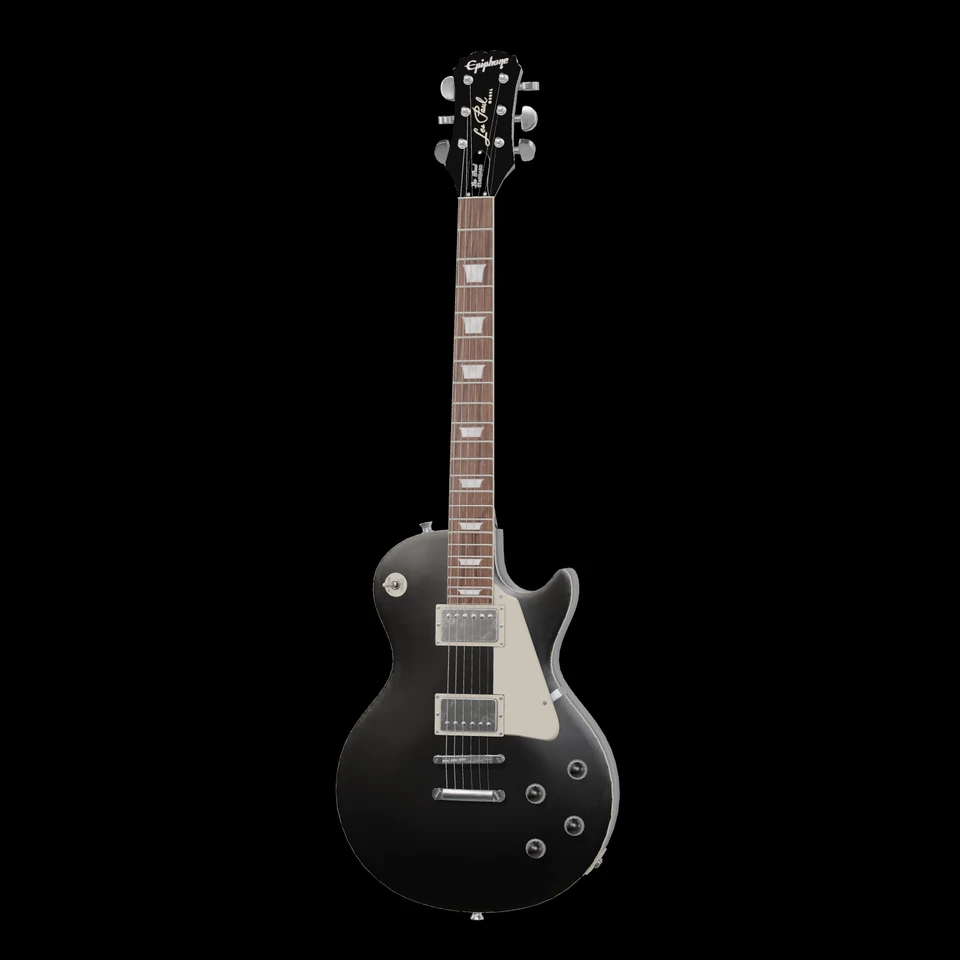
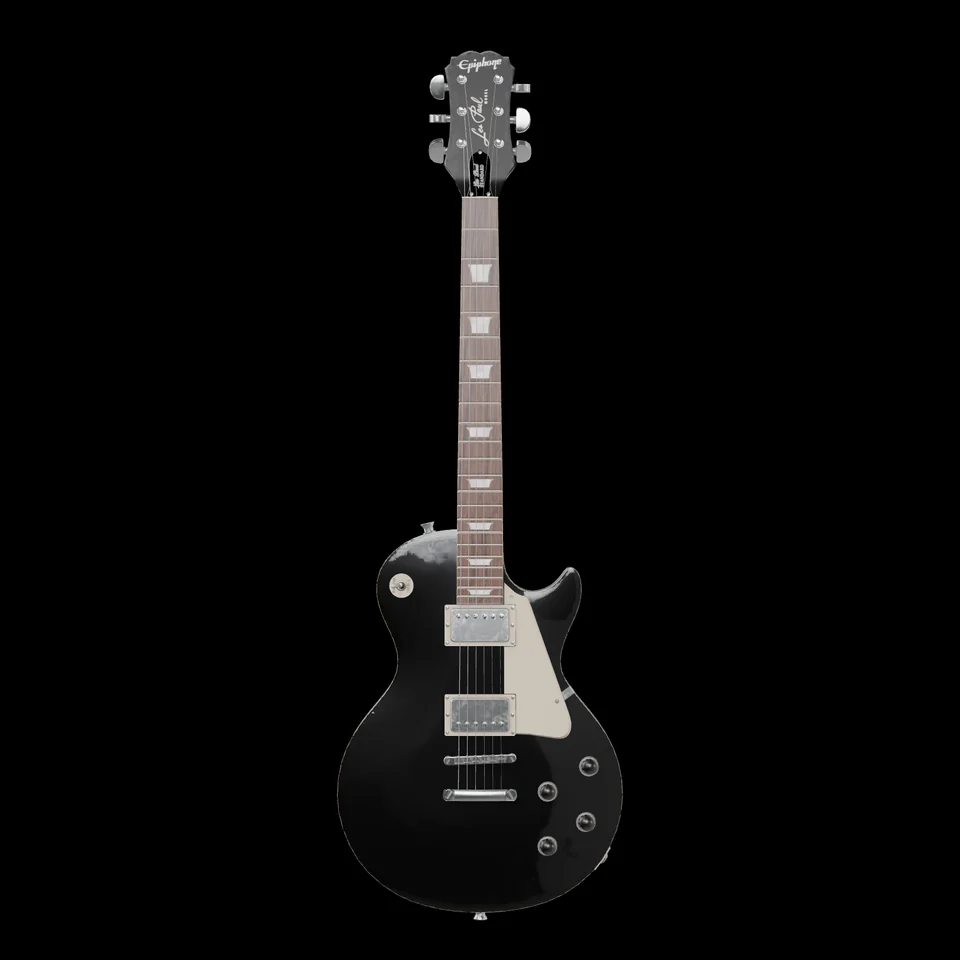
Turn the guitar face-on as its lineup arrives

Changed region(s): [[0.375, 0.0312, 0.6562, 0.9375], [0.3438, 0.75, 0.375, 0.8125], [0.375, 0.7188, 0.4062, 0.75]]

diff --git a/src/components/music/lineup/lineup.ts b/src/components/music/lineup/lineup.ts
@@ -39,7 +39,7 @@ import type { Instrument } from './instrument';
 
 const FOLLOW = 0.07; // s: the screen follows the scroll this closely
 const DECELERATION = 0.998; // Apple's normal scroll deceleration, for projecting a flick
-const REST = -50; // degrees: turned well round, so its depth shows next to the flat copies
+const THREE_QUARTER_YAW = -50; // degrees from face-on
 const BODY = .27; // a body's width, in frame widths (the outlines in silhouettes.ts)
 const HOLD = .8; // lines of scroll the lit bass waits before the move
 const MOVE = 4.2; // lines of scroll the slide takes
@@ -374,15 +374,14 @@ onPage(signal => {
     }
     return true;
   }
-  // Start face-on. The turn begins with the first card and reaches the resting pose as the fan opens.
-  function turn(scene: Scene, progress: number, extra = 0) {
-    const reveal = smooth(clamp((progress - .02) / .58));
-    const yaw = (REST + extra) * reveal + scene.angle;
+  function turn(scene: Scene, threeQuarterShare: number) {
+    const swayYaw = (lean.get(scene.canvas) ?? 0) * RACK.yaw;
+    const yaw = (THREE_QUARTER_YAW + swayYaw) * threeQuarterShare + scene.angle;
     scene.yaw = yaw;
     scene.instrument?.pose(yaw);
-    const angle = Math.round(wrap(yaw - REST)) % 360;
+    const angle = Math.round(wrap(yaw)) % 360;
     scene.grab.setAttribute('aria-valuenow', String(angle));
-    const side = angle < 30 || angle > 330 ? 'Three quarters on' : angle > 150 && angle < 210 ? 'From the back' : 'Turned';
+    const side = angle === 0 ? 'Facing forward' : `${angle} degrees`;
     if (scene.grab.getAttribute('aria-valuetext') !== side) scene.grab.setAttribute('aria-valuetext', side);
   }
 
@@ -497,7 +496,8 @@ onPage(signal => {
     bass.cam.classList.toggle('is-sliding', move > 0);
     guitar.element.style.visibility = move <= 0 ? 'hidden' : '';
     const leave = easeOut(clamp(move / .3)); // the bass's words going
-    const come = easeOut(clamp((move - .6) / .4)); // the guitar's arriving
+    const arrival = clamp((move - .6) / .4);
+    const come = easeOut(arrival); // the guitar's words arriving
     words(bass, 1 - leave, -14 * leave);
     words(guitar, come, 14 * (1 - come));
     // The slide: the row travels left by the distance between the two line-ups.
@@ -506,9 +506,9 @@ onPage(signal => {
     guitar.cam.style.transform = `translate3d(${(reach * (1 - e)).toFixed(2)}px,0,0)`;
     bass.words.style.transform += ` translate3d(${(-reach * .5 * e).toFixed(2)}px,0,0)`;
     guitar.words.style.transform += ` translate3d(${(reach * .5 * (1 - e)).toFixed(2)}px,0,0)`;
-    // The real ones also turn on their axis as the rack sways.
-    turn(bass, bassProgress, (lean.get(bass.canvas) ?? 0) * RACK.yaw);
-    turn(guitar, 1, (lean.get(guitar.canvas) ?? 0) * RACK.yaw);
+    // The bass turns as the fan opens. The guitar turns to face the reader as its words arrive.
+    turn(bass, smooth(clamp((bassProgress - .02) / .58)));
+    turn(guitar, 1 - smooth(arrival));
 
     // The hand: a scene's instrument is free once its words are lit and the move is over.
     stand(bass, bassProgress > .995 && move <= 0);

diff --git a/public/music/instruments/CREDITS.md b/public/music/instruments/CREDITS.md
@@ -20,4 +20,4 @@ gltf-transform optimize pj-bass.raw.glb public/music/instruments/pj-bass.glb --c
 gltf-transform optimize les-paul.raw.glb public/music/instruments/les-paul.glb --compress meshopt --simplify false --texture-compress webp --texture-size 2048
 ```
 
-For each still, call the live renderer’s `resize(1624, 1)` and `pose(1)`, capture its canvas in the same frame, then downsample to 960 × 960 and save as WebP. These tools are only used when regenerating the assets.
+For each still, call the live renderer’s `resize(1624, 1)` and set the pose with `pose(0)` for the guitar or `pose(1)` for the bass. Capture its canvas in the same frame, then downsample to 960 × 960 and save as WebP. These tools are only used when regenerating the assets.
